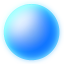
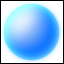
new autel + dimensions orb
améliorations

Changed region(s): [[0.0, 0.0, 1.0, 1.0]]

diff --git a/projet/main.py b/projet/main.py
@@ -1,6 +1,6 @@
 from data.code.utils import *
 
-orb1 = cl.Building('orb','standard',(-1,1),(1,1))
+orb1 = cl.Building('orb','standard',(-3,-2),(2,2))
 orb1.lvl = 0
 armurerie1 = cl.Building('armurerie','standard',(-5,3),(3,2))
 armurerie1.lvl = 0
